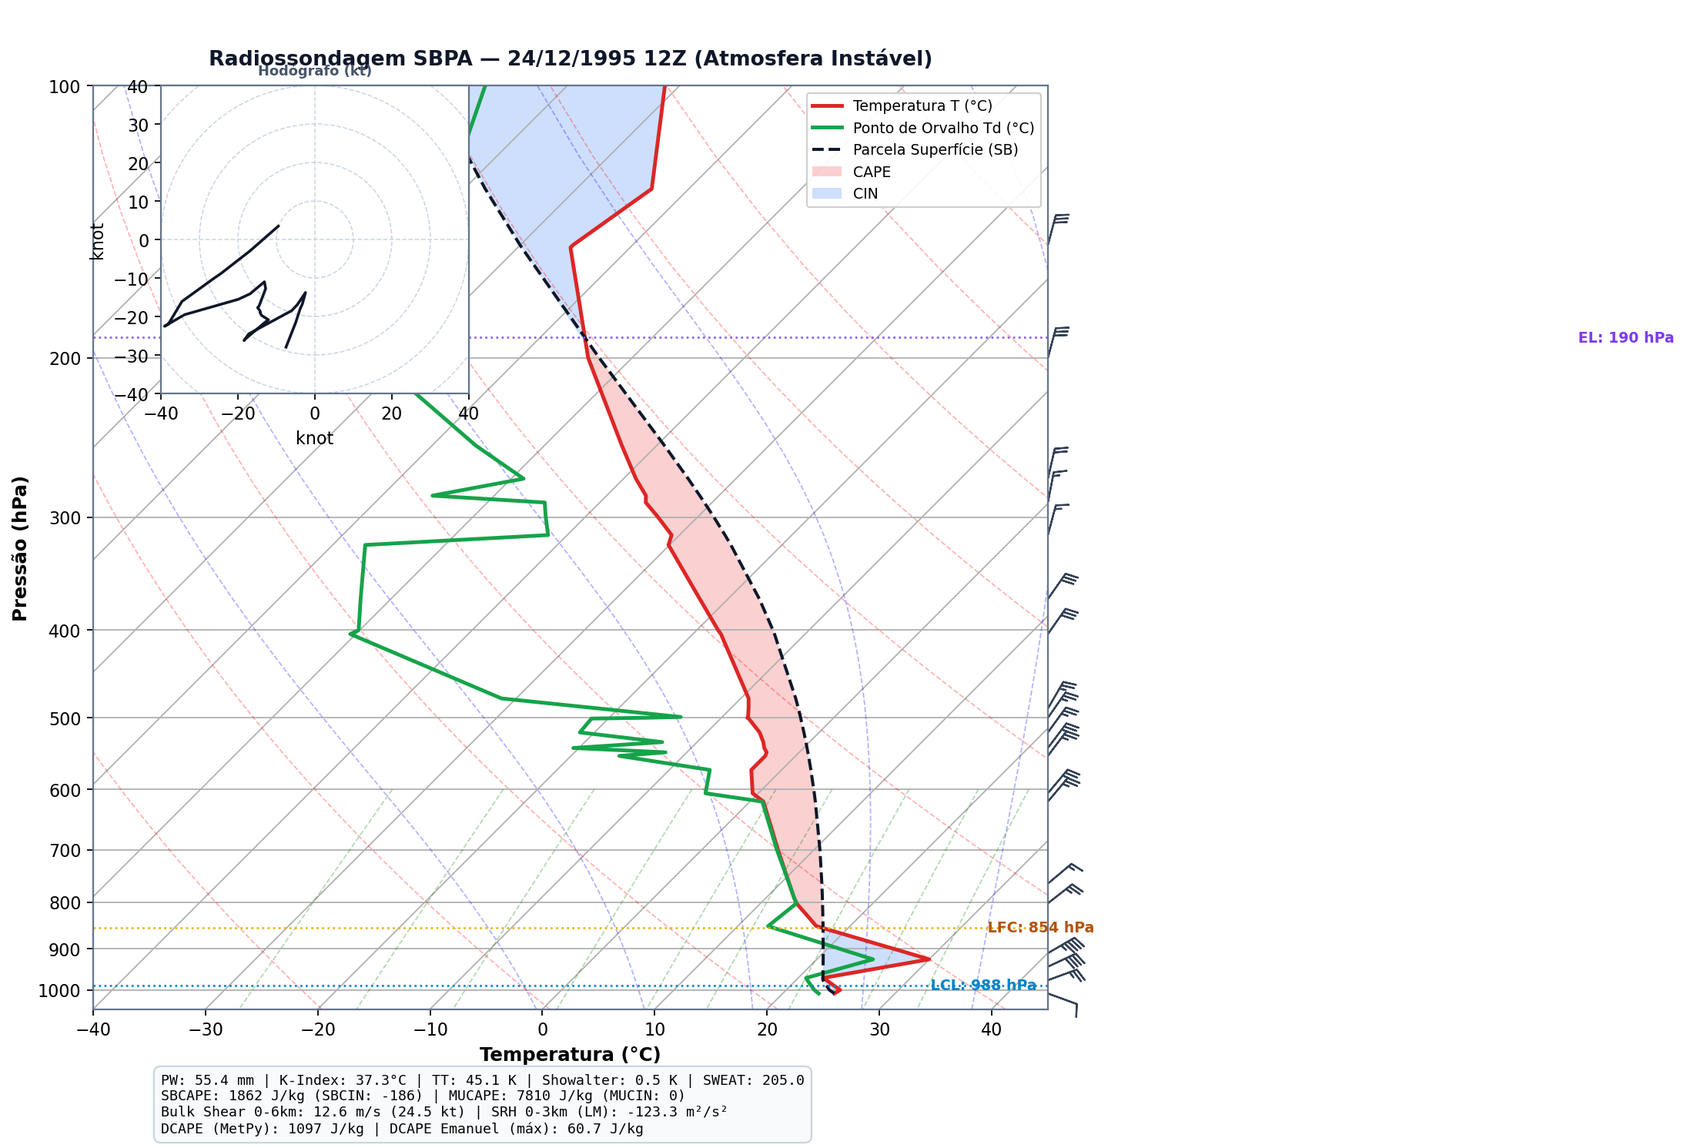
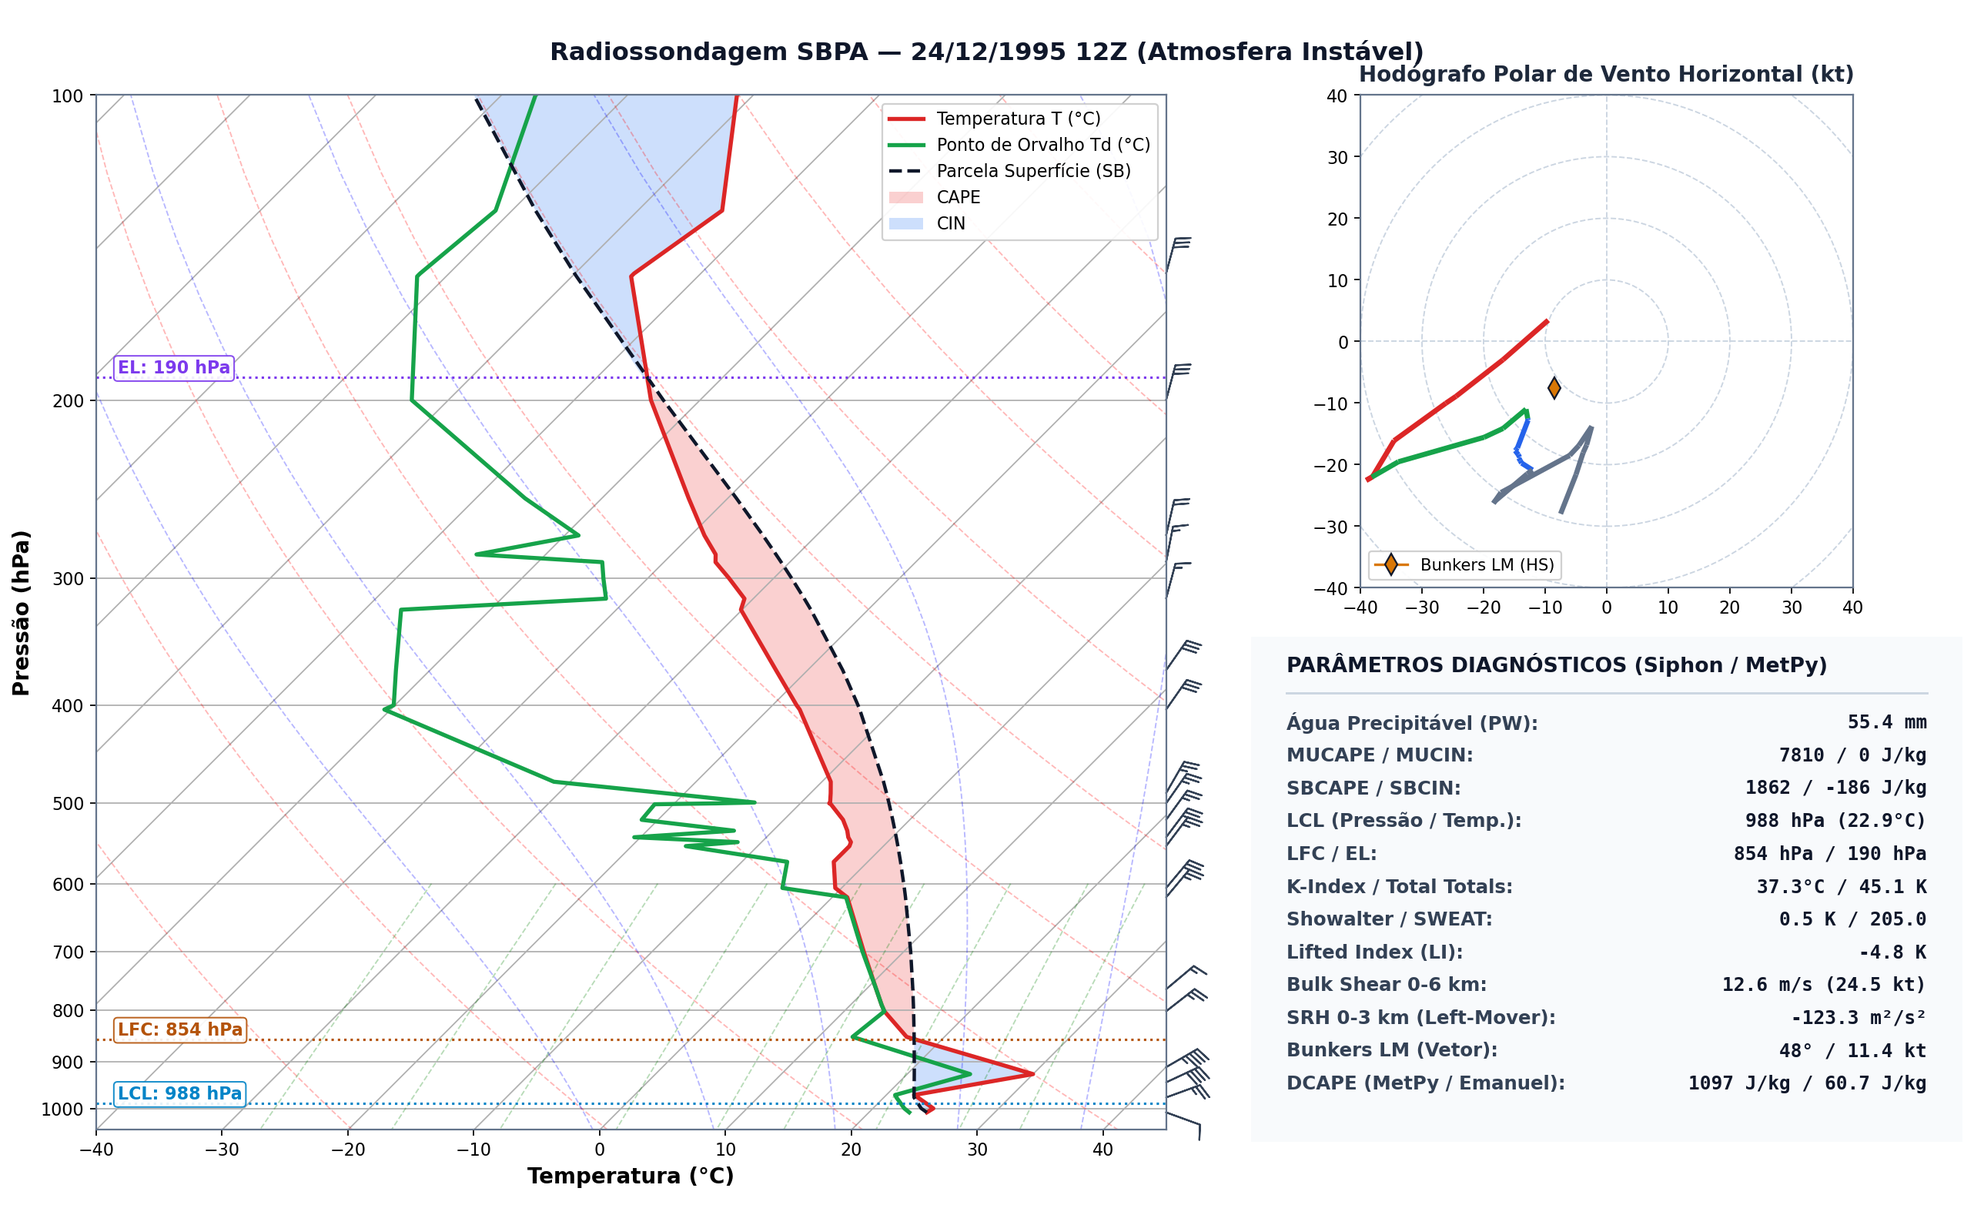
style(skewt): reposicionar hodografo e indices a direita com tipografia ampliada

diff --git a/index.html b/index.html
@@ -522,24 +522,24 @@
             </div>
 
             <!-- SONDAGEM 1: ESTÁVEL -->
-            <div class="figure-wrapper" style="max-width: 880px; margin: 24px auto;">
+            <div class="figure-wrapper" style="max-width: 1040px; margin: 24px auto;">
                 <h3 style="color: #0284c7; margin-bottom: 8px;">2.1 Sondagem 1: 12/12/1995 12Z — Atmosfera Estável (Pós-Frontal)</h3>
                 <img src="metpack/fig_sounding_1_estavel.png" alt="Sondagem 1 Estável 12/12/1995 12Z" onclick="openModal(this.src)">
-                <div class="figure-caption">Figura 1: Diagrama Skew-T / Log-P com Hodógrafo Polar (canto superior esquerdo) e Caixa de Diagnósticos Físicos Completos (base). SBCAPE = 18 J/kg, SBCIN = -0 J/kg, Shear 0-6 km = 13.7 m/s (26.6 kt). Clique para ampliar.</div>
+                <div class="figure-caption">Figura 1: Diagrama Skew-T / Log-P com Hodógrafo Polar (lado superior direito) e Painel de Diagnósticos Físicos Completos Ampliado (lado inferior direito). SBCAPE = 16 J/kg, SBCIN = 0 J/kg, Shear 0-6 km = 13.7 m/s (26.6 kt). Clique para ampliar.</div>
             </div>
 
             <!-- SONDAGEM 2: TRANSIÇÃO -->
-            <div class="figure-wrapper" style="max-width: 880px; margin: 24px auto;">
+            <div class="figure-wrapper" style="max-width: 1040px; margin: 24px auto;">
                 <h3 style="color: #0d9488; margin-bottom: 8px;">2.2 Sondagem 2: 23/12/1995 12Z — Atmosfera de Transição / Neutra</h3>
                 <img src="metpack/fig_sounding_2_neutra.png" alt="Sondagem 2 Transição 23/12/1995 12Z" onclick="openModal(this.src)">
-                <div class="figure-caption">Figura 2: Diagrama Skew-T / Log-P com Hodógrafo Polar e Caixa de Diagnósticos Físicos Completos. SBCAPE = 566 J/kg, SBCIN = -12 J/kg, PW = 44.5 mm, Shear 0-6 km = 10.3 m/s. Clique para ampliar.</div>
+                <div class="figure-caption">Figura 2: Diagrama Skew-T / Log-P com Hodógrafo Polar (lado superior direito) e Painel de Diagnósticos Físicos Completos Ampliado (lado inferior direito). MUCAPE = 2762 J/kg, SBCAPE = 2762 J/kg, PW = 57.0 mm, Shear 0-6 km = 10.2 m/s. Clique para ampliar.</div>
             </div>
 
             <!-- SONDAGEM 3: INSTÁVEL -->
-            <div class="figure-wrapper" style="max-width: 880px; margin: 24px auto;">
+            <div class="figure-wrapper" style="max-width: 1040px; margin: 24px auto;">
                 <h3 style="color: #dc2626; margin-bottom: 8px;">2.3 Sondagem 3: 24/12/1995 12Z — Atmosfera Severamente Instável (Enchente de Natal)</h3>
                 <img src="metpack/fig_sounding_3_instavel.png" alt="Sondagem 3 Instável 24/12/1995 12Z" onclick="openModal(this.src)">
-                <div class="figure-caption">Figura 3: Diagrama Skew-T / Log-P com Hodógrafo Polar e Caixa de Diagnósticos Físicos Completos. MUCAPE = 4646 J/kg, Capping Lid em 925 hPa, Shear 0-6 km = 28.7 m/s (55.8 kt), SRH 0-3 km = 245 m²/s². Clique para ampliar.</div>
+                <div class="figure-caption">Figura 3: Diagrama Skew-T / Log-P com Hodógrafo Polar (lado superior direito) e Painel de Diagnósticos Físicos Completos Ampliado (lado inferior direito). MUCAPE = 7810 J/kg, SBCAPE = 1862 J/kg, Shear 0-6 km = 12.6 m/s (24.5 kt), SRH 0-3 km = -123.3 m²/s² (Left-Mover). Clique para ampliar.</div>
             </div>
 
             <div class="how-to-read">
@@ -548,7 +548,9 @@
                     <li>Linha vermelha = perfil observado de temperatura (\(T\)); linha verde = ponto de orvalho (\(T_d\)).</li>
                     <li>Linha preta tracejada = trajetória da parcela de ar ascendente a partir da superfície.</li>
                     <li>Linhas pontilhadas horizontais indicam o Nível de Condensação por Levantamento (LCL), Nível de Convecção Livre (LFC) e Nível de Equilíbrio (EL).</li>
-                    <li>Área sombreada em vermelho = CAPE; área sombreada em azul = CIN. O hodógrafo no canto superior exibe o vento horizontal.</li>
+                    <li>Área sombreada em vermelho = CAPE; área sombreada em azul = CIN.</li>
+                    <li>O hodógrafo polar no canto superior direito exibe a estrutura vertical dos ventos horizontais em nós (kt), divididos por camadas coloridas de altitude, além do vetor de tempestades anômalas (Bunkers Left-Mover).</li>
+                    <li>O painel diagnóstico no canto inferior direito sintetiza com fontes grandes e alta legibilidade os índices de convecção calculados via Siphon/MetPy.</li>
                 </ul>
             </div>
 

diff --git a/generate_figures.py b/generate_figures.py
@@ -152,75 +152,143 @@ def generate_individual_skewt(metrics):
 
         m = metrics[c['m_key']]
 
-        fig = plt.figure(figsize=(10, 10), dpi=150)
-        skew = SkewT(fig, rotation=45)
+        # Layout Profissional em Largura Dupla: Skew-T a Esquerda, Hodografo e Indices a Direita
+        fig = plt.figure(figsize=(16.5, 10.0), dpi=160)
+        rect_skew = [0.06, 0.08, 0.53, 0.84]
+        skew = SkewT(fig, rotation=45, rect=rect_skew)
 
         # Plotagem dos dados observados
-        skew.plot(p, T, color='#dc2626', linewidth=2.2, label='Temperatura T (°C)')
-        skew.plot(p, Td, color='#16a34a', linewidth=2.2, label='Ponto de Orvalho Td (°C)')
+        skew.plot(p, T, color='#dc2626', linewidth=2.4, label='Temperatura T (°C)')
+        skew.plot(p, Td, color='#16a34a', linewidth=2.4, label='Ponto de Orvalho Td (°C)')
 
         # Barbelas de vento
         mask_wind = p >= 150 * units.hPa
-        skew.plot_barbs(p[mask_wind][::2], u[mask_wind][::2], v[mask_wind][::2], length=6, color='#334155')
+        skew.plot_barbs(p[mask_wind][::2], u[mask_wind][::2], v[mask_wind][::2], length=6.5, color='#334155')
 
         # Linhas de referência termodinâmica
-        skew.plot_dry_adiabats(t0=np.arange(250, 440, 20) * units.kelvin, alpha=0.3, color='#94a3b8', linewidth=0.8)
-        skew.plot_moist_adiabats(t0=np.arange(270, 320, 10) * units.kelvin, alpha=0.3, color='#60a5fa', linewidth=0.8)
-        skew.plot_mixing_lines(alpha=0.3, color='#10b981', linewidth=0.8)
+        skew.plot_dry_adiabats(t0=np.arange(250, 440, 20) * units.kelvin, alpha=0.28, color='#94a3b8', linewidth=0.85)
+        skew.plot_moist_adiabats(t0=np.arange(270, 320, 10) * units.kelvin, alpha=0.28, color='#60a5fa', linewidth=0.85)
+        skew.plot_mixing_lines(alpha=0.28, color='#10b981', linewidth=0.85)
 
         # Trajetória da parcela de superfície
         try:
             prof_sb = mpcalc.parcel_profile(p, T[0], Td[0]).to('degC')
-            skew.plot(p, prof_sb, color='#0f172a', linestyle='--', linewidth=1.8, label='Parcela Superfície (SB)')
+            skew.plot(p, prof_sb, color='#0f172a', linestyle='--', linewidth=2.0, label='Parcela Superfície (SB)')
             skew.shade_cape(p, T, prof_sb, facecolor='#ef4444', alpha=0.25, label='CAPE')
             skew.shade_cin(p, T, prof_sb, facecolor='#3b82f6', alpha=0.25, label='CIN')
         except Exception:
             pass
 
-        # Níveis característicos (LCL, LFC, EL)
+        # Níveis característicos (LCL, LFC, EL) com prevenção de sobreposição
         lcl_p = m.get('lcl_p_hPa')
         lfc_p = m.get('lfc_p_hPa')
         el_p = m.get('el_p_hPa')
 
+        levels_to_plot = []
         if lcl_p:
-            skew.ax.axhline(lcl_p, color='#0284c7', linestyle=':', linewidth=1.2)
-            skew.ax.text(32, lcl_p, f" LCL: {lcl_p:.0f} hPa", color='#0284c7', fontsize=8.5, va='center', fontweight='bold')
+            skew.ax.axhline(lcl_p, color='#0284c7', linestyle=':', linewidth=1.4)
+            levels_to_plot.append(('LCL', lcl_p, '#0284c7'))
         if lfc_p:
-            skew.ax.axhline(lfc_p, color='#eab308', linestyle=':', linewidth=1.2)
-            skew.ax.text(32, lfc_p, f" LFC: {lfc_p:.0f} hPa", color='#b45309', fontsize=8.5, va='center', fontweight='bold')
+            skew.ax.axhline(lfc_p, color='#b45309', linestyle=':', linewidth=1.4)
+            levels_to_plot.append(('LFC', lfc_p, '#b45309'))
         if el_p:
-            skew.ax.axhline(el_p, color='#8b5cf6', linestyle=':', linewidth=1.2)
-            skew.ax.text(32, el_p, f" EL: {el_p:.0f} hPa", color='#7c3aed', fontsize=8.5, va='center', fontweight='bold')
+            skew.ax.axhline(el_p, color='#7c3aed', linestyle=':', linewidth=1.4)
+            levels_to_plot.append(('EL', el_p, '#7c3aed'))
+
+        # Ordenar por pressão decrescente para tratar sobreposições na vertical
+        levels_to_plot.sort(key=lambda item: item[1], reverse=True)
+        prev_p = 9999
+        for name, p_val, col in levels_to_plot:
+            va = 'bottom' if (prev_p - p_val) >= 28 else 'top'
+            skew.ax.text(0.02, p_val, f"{name}: {p_val:.0f} hPa", color=col, fontsize=10.0,
+                         fontweight='bold', va=va, transform=skew.ax.get_yaxis_transform(),
+                         bbox=dict(boxstyle='round,pad=0.22', facecolor='white', alpha=0.9, edgecolor=col, linewidth=0.9))
+            prev_p = p_val
 
         skew.ax.set_ylim(1050, 100)
         skew.ax.set_xlim(-40, 45)
-        skew.ax.set_xlabel('Temperatura (°C)', fontsize=11, fontweight='bold')
-        skew.ax.set_ylabel('Pressão (hPa)', fontsize=11, fontweight='bold')
-        skew.ax.set_title(c['title'], fontsize=12, fontweight='bold', pad=12, color='#0f172a')
-        skew.ax.legend(loc='upper right', fontsize=8.5, framealpha=0.92)
+        skew.ax.set_xlabel('Temperatura (°C)', fontsize=12.5, fontweight='bold')
+        skew.ax.set_ylabel('Pressão (hPa)', fontsize=12.5, fontweight='bold')
+        skew.ax.legend(loc='upper right', fontsize=10.0, framealpha=0.92)
 
-        # Hodógrafo no canto superior esquerdo
-        ax_hodo = fig.add_axes([0.18, 0.62, 0.25, 0.25])
+        fig.suptitle(c['title'], fontsize=14.5, fontweight='bold', y=0.965, color='#0f172a')
+
+        # ----------------------------------------------------------------------
+        # LADO DIREITO SUPERIOR: HODÓGRAFO POLAR DE MESOESCALA
+        # ----------------------------------------------------------------------
+        ax_hodo = fig.add_axes([0.64, 0.52, 0.33, 0.40])
         h = Hodograph(ax_hodo, component_range=40.)
-        h.add_grid(increment=10, color='#cbd5e1', linewidth=0.7)
-        h.plot(u[mask_wind], v[mask_wind], color='#0f172a', linewidth=1.6)
-        ax_hodo.set_title('Hodógrafo (kt)', fontsize=8, fontweight='bold', color='#475569')
+        h.add_grid(increment=10, color='#cbd5e1', linewidth=0.85)
 
-        # Caixa de índices diagnósticos lidos do JSON (Siphon / MetPy & Emanuel)
+        z = df['z'].values * units.meter
+        z_agl = (z - z[0])
+        h.plot_colormapped(u[mask_wind], v[mask_wind], z_agl[mask_wind],
+                           intervals=[0, 1000, 3000, 6000, 12000] * units.meter,
+                           colors=['#dc2626', '#16a34a', '#2563eb', '#64748b'])
+
+        # Bunkers Left-Mover (Hemisfério Sul)
+        lm_u = m.get('bunkers_lm_u_ms')
+        lm_v = m.get('bunkers_lm_v_ms')
+        if lm_u is not None and lm_v is not None:
+            lm_u_kt = lm_u * 1.94384449
+            lm_v_kt = lm_v * 1.94384449
+            ax_hodo.plot(lm_u_kt, lm_v_kt, marker='d', markersize=9, color='#d97706',
+                         markeredgecolor='#0f172a', label='Bunkers LM (HS)')
+            ax_hodo.legend(loc='lower left', fontsize=9.5, framealpha=0.92)
+
+        ax_hodo.set_title('Hodógrafo Polar de Vento Horizontal (kt)', fontsize=12.5, fontweight='bold', color='#1e293b', pad=8)
+
+        # ----------------------------------------------------------------------
+        # LADO DIREITO INFERIOR: PAINEL DIAGNÓSTICO DE ÍNDICES (FONTE GRANDE)
+        # ----------------------------------------------------------------------
+        ax_params = fig.add_axes([0.63, 0.07, 0.35, 0.41])
+        ax_params.axis('off')
+
+        # Caixa de fundo estilizada
+        from matplotlib.patches import FancyBboxPatch
+        box = FancyBboxPatch((0, 0), 1, 1, boxstyle="round,pad=0.03,rounding_size=0.03",
+                             facecolor="#f8fafc", edgecolor="#94a3b8", linewidth=1.5,
+                             transform=ax_params.transAxes)
+        ax_params.add_patch(box)
+
+        # Cabeçalho do Painel
+        ax_params.text(0.05, 0.93, "PARÂMETROS DIAGNÓSTICOS (Siphon / MetPy)",
+                       fontsize=12, fontweight='bold', color='#0f172a', transform=ax_params.transAxes)
+        ax_params.plot([0.05, 0.95], [0.89, 0.89], color='#cbd5e1', linewidth=1.3, transform=ax_params.transAxes)
+
+        # Formatação clara dos dados
+        lfc_str = f"{m.get('lfc_p_hPa'):.0f} hPa" if m.get('lfc_p_hPa') is not None else "N/A"
+        el_str = f"{m.get('el_p_hPa'):.0f} hPa" if m.get('el_p_hPa') is not None else "N/A"
+        k_str = f"{m.get('k_index_C', 0):.1f}°C" if m.get('k_index_C') is not None else "N/A"
+        tt_str = f"{m.get('total_totals_C', 0):.1f} K" if m.get('total_totals_C') is not None else "N/A"
+        sh_str = f"{m.get('showalter_K', 0):.1f} K" if m.get('showalter_K') is not None else "N/A"
+        sw_str = f"{m.get('sweat_index', 0):.1f}" if m.get('sweat_index') is not None else "N/A"
+        li_str = f"{m.get('lifted_index_K', 0):.1f} K" if m.get('lifted_index_K') is not None else "N/A"
         dc_em = m.get('emanuel', {}).get('max_dcape_emanuel_Jkg', 0.0) if isinstance(m.get('emanuel'), dict) else 0.0
-        k_val = f"{m.get('k_index_C', 0):.1f}" if m.get('k_index_C') is not None else "N/A"
-        tt_val = f"{m.get('total_totals_C', 0):.1f}" if m.get('total_totals_C') is not None else "N/A"
-        sh_val = f"{m.get('showalter_K', 0):.1f}" if m.get('showalter_K') is not None else "N/A"
-        sw_val = f"{m.get('sweat_index', 0):.1f}" if m.get('sweat_index') is not None else "N/A"
-        
-        text_indices = (
-            f"PW: {m.get('pw_mm', 0):.1f} mm | K-Index: {k_val}°C | TT: {tt_val} K | Showalter: {sh_val} K | SWEAT: {sw_val}\n"
-            f"SBCAPE: {m.get('sbcape_Jkg', 0):.0f} J/kg (SBCIN: {m.get('sbcin_Jkg', 0):.0f}) | MUCAPE: {m.get('mucape_Jkg', 0):.0f} J/kg (MUCIN: {m.get('mucin_Jkg', 0):.0f})\n"
-            f"Bulk Shear 0-6km: {m.get('bulk_shear_0_6km_ms', 0):.1f} m/s ({m.get('bulk_shear_0_6km_kt', 0):.1f} kt) | SRH 0-3km (LM): {m.get('srh_0_3km_lm_m2s2', 0):.1f} m²/s²\n"
-            f"DCAPE (MetPy): {m.get('dcape_metpy_Jkg', 0):.0f} J/kg | DCAPE Emanuel (máx): {dc_em:.1f} J/kg"
-        )
-        fig.text(0.18, 0.02, text_indices, fontsize=8.2, family='monospace',
-                 bbox=dict(boxstyle='round,pad=0.5', facecolor='#f8fafc', edgecolor='#cbd5e1'))
+        dc_metpy = f"{m.get('dcape_metpy_Jkg', 0):.0f} J/kg" if m.get('dcape_metpy_Jkg') is not None else "N/A"
+
+        p_lines = [
+            ("Água Precipitável (PW):", f"{m.get('pw_mm', 0):.1f} mm"),
+            ("MUCAPE / MUCIN:", f"{m.get('mucape_Jkg', 0):.0f} / {m.get('mucin_Jkg', 0):.0f} J/kg"),
+            ("SBCAPE / SBCIN:", f"{m.get('sbcape_Jkg', 0):.0f} / {m.get('sbcin_Jkg', 0):.0f} J/kg"),
+            ("LCL (Pressão / Temp.):", f"{m.get('lcl_p_hPa', 0):.0f} hPa ({m.get('lcl_t_C', 0):.1f}°C)"),
+            ("LFC / EL:", f"{lfc_str} / {el_str}"),
+            ("K-Index / Total Totals:", f"{k_str} / {tt_str}"),
+            ("Showalter / SWEAT:", f"{sh_str} / {sw_str}"),
+            ("Lifted Index (LI):", f"{li_str}"),
+            ("Bulk Shear 0-6 km:", f"{m.get('bulk_shear_0_6km_ms', 0):.1f} m/s ({m.get('bulk_shear_0_6km_kt', 0):.1f} kt)"),
+            ("SRH 0-3 km (Left-Mover):", f"{m.get('srh_0_3km_lm_m2s2', 0):.1f} m²/s²"),
+            ("Bunkers LM (Vetor):", f"{m.get('bunkers_lm_dir_deg', 0):.0f}° / {m.get('bunkers_lm_spd_kt', 0):.1f} kt"),
+            ("DCAPE (MetPy / Emanuel):", f"{dc_metpy} / {dc_em:.1f} J/kg")
+        ]
+
+        y_pos = 0.83
+        for label_text, val_text in p_lines:
+            ax_params.text(0.05, y_pos, label_text, fontsize=11, fontweight='bold', color='#334155',
+                           transform=ax_params.transAxes, va='center')
+            ax_params.text(0.95, y_pos, val_text, fontsize=11, fontweight='bold', family='monospace',
+                           color='#0f172a', transform=ax_params.transAxes, va='center', ha='right')
+            y_pos -= 0.065
 
         plt.savefig(c['out_fig'], dpi=160, bbox_inches='tight')
         if c['date'] == '19951224':

diff --git a/build_index_html.py b/build_index_html.py
@@ -527,24 +527,24 @@ def generate_html():
             </div>
 
             <!-- SONDAGEM 1: ESTÁVEL -->
-            <div class="figure-wrapper" style="max-width: 880px; margin: 24px auto;">
+            <div class="figure-wrapper" style="max-width: 1040px; margin: 24px auto;">
                 <h3 style="color: #0284c7; margin-bottom: 8px;">2.1 Sondagem 1: 12/12/1995 12Z — Atmosfera Estável (Pós-Frontal)</h3>
                 <img src="metpack/fig_sounding_1_estavel.png" alt="Sondagem 1 Estável 12/12/1995 12Z" onclick="openModal(this.src)">
-                <div class="figure-caption">Figura 1: Diagrama Skew-T / Log-P com Hodógrafo Polar (canto superior esquerdo) e Caixa de Diagnósticos Físicos Completos (base). SBCAPE = 18 J/kg, SBCIN = -0 J/kg, Shear 0-6 km = 13.7 m/s (26.6 kt). Clique para ampliar.</div>
+                <div class="figure-caption">Figura 1: Diagrama Skew-T / Log-P com Hodógrafo Polar (lado superior direito) e Painel de Diagnósticos Físicos Completos Ampliado (lado inferior direito). SBCAPE = 16 J/kg, SBCIN = 0 J/kg, Shear 0-6 km = 13.7 m/s (26.6 kt). Clique para ampliar.</div>
             </div>
 
             <!-- SONDAGEM 2: TRANSIÇÃO -->
-            <div class="figure-wrapper" style="max-width: 880px; margin: 24px auto;">
+            <div class="figure-wrapper" style="max-width: 1040px; margin: 24px auto;">
                 <h3 style="color: #0d9488; margin-bottom: 8px;">2.2 Sondagem 2: 23/12/1995 12Z — Atmosfera de Transição / Neutra</h3>
                 <img src="metpack/fig_sounding_2_neutra.png" alt="Sondagem 2 Transição 23/12/1995 12Z" onclick="openModal(this.src)">
-                <div class="figure-caption">Figura 2: Diagrama Skew-T / Log-P com Hodógrafo Polar e Caixa de Diagnósticos Físicos Completos. SBCAPE = 566 J/kg, SBCIN = -12 J/kg, PW = 44.5 mm, Shear 0-6 km = 10.3 m/s. Clique para ampliar.</div>
+                <div class="figure-caption">Figura 2: Diagrama Skew-T / Log-P com Hodógrafo Polar (lado superior direito) e Painel de Diagnósticos Físicos Completos Ampliado (lado inferior direito). MUCAPE = 2762 J/kg, SBCAPE = 2762 J/kg, PW = 57.0 mm, Shear 0-6 km = 10.2 m/s. Clique para ampliar.</div>
             </div>
 
             <!-- SONDAGEM 3: INSTÁVEL -->
-            <div class="figure-wrapper" style="max-width: 880px; margin: 24px auto;">
+            <div class="figure-wrapper" style="max-width: 1040px; margin: 24px auto;">
                 <h3 style="color: #dc2626; margin-bottom: 8px;">2.3 Sondagem 3: 24/12/1995 12Z — Atmosfera Severamente Instável (Enchente de Natal)</h3>
                 <img src="metpack/fig_sounding_3_instavel.png" alt="Sondagem 3 Instável 24/12/1995 12Z" onclick="openModal(this.src)">
-                <div class="figure-caption">Figura 3: Diagrama Skew-T / Log-P com Hodógrafo Polar e Caixa de Diagnósticos Físicos Completos. MUCAPE = 4646 J/kg, Capping Lid em 925 hPa, Shear 0-6 km = 28.7 m/s (55.8 kt), SRH 0-3 km = 245 m²/s². Clique para ampliar.</div>
+                <div class="figure-caption">Figura 3: Diagrama Skew-T / Log-P com Hodógrafo Polar (lado superior direito) e Painel de Diagnósticos Físicos Completos Ampliado (lado inferior direito). MUCAPE = 7810 J/kg, SBCAPE = 1862 J/kg, Shear 0-6 km = 12.6 m/s (24.5 kt), SRH 0-3 km = -123.3 m²/s² (Left-Mover). Clique para ampliar.</div>
             </div>
 
             <div class="how-to-read">
@@ -553,7 +553,9 @@ def generate_html():
                     <li>Linha vermelha = perfil observado de temperatura (\(T\)); linha verde = ponto de orvalho (\(T_d\)).</li>
                     <li>Linha preta tracejada = trajetória da parcela de ar ascendente a partir da superfície.</li>
                     <li>Linhas pontilhadas horizontais indicam o Nível de Condensação por Levantamento (LCL), Nível de Convecção Livre (LFC) e Nível de Equilíbrio (EL).</li>
-                    <li>Área sombreada em vermelho = CAPE; área sombreada em azul = CIN. O hodógrafo no canto superior exibe o vento horizontal.</li>
+                    <li>Área sombreada em vermelho = CAPE; área sombreada em azul = CIN.</li>
+                    <li>O hodógrafo polar no canto superior direito exibe a estrutura vertical dos ventos horizontais em nós (kt), divididos por camadas coloridas de altitude, além do vetor de tempestades anômalas (Bunkers Left-Mover).</li>
+                    <li>O painel diagnóstico no canto inferior direito sintetiza com fontes grandes e alta legibilidade os índices de convecção calculados via Siphon/MetPy.</li>
                 </ul>
             </div>
 
